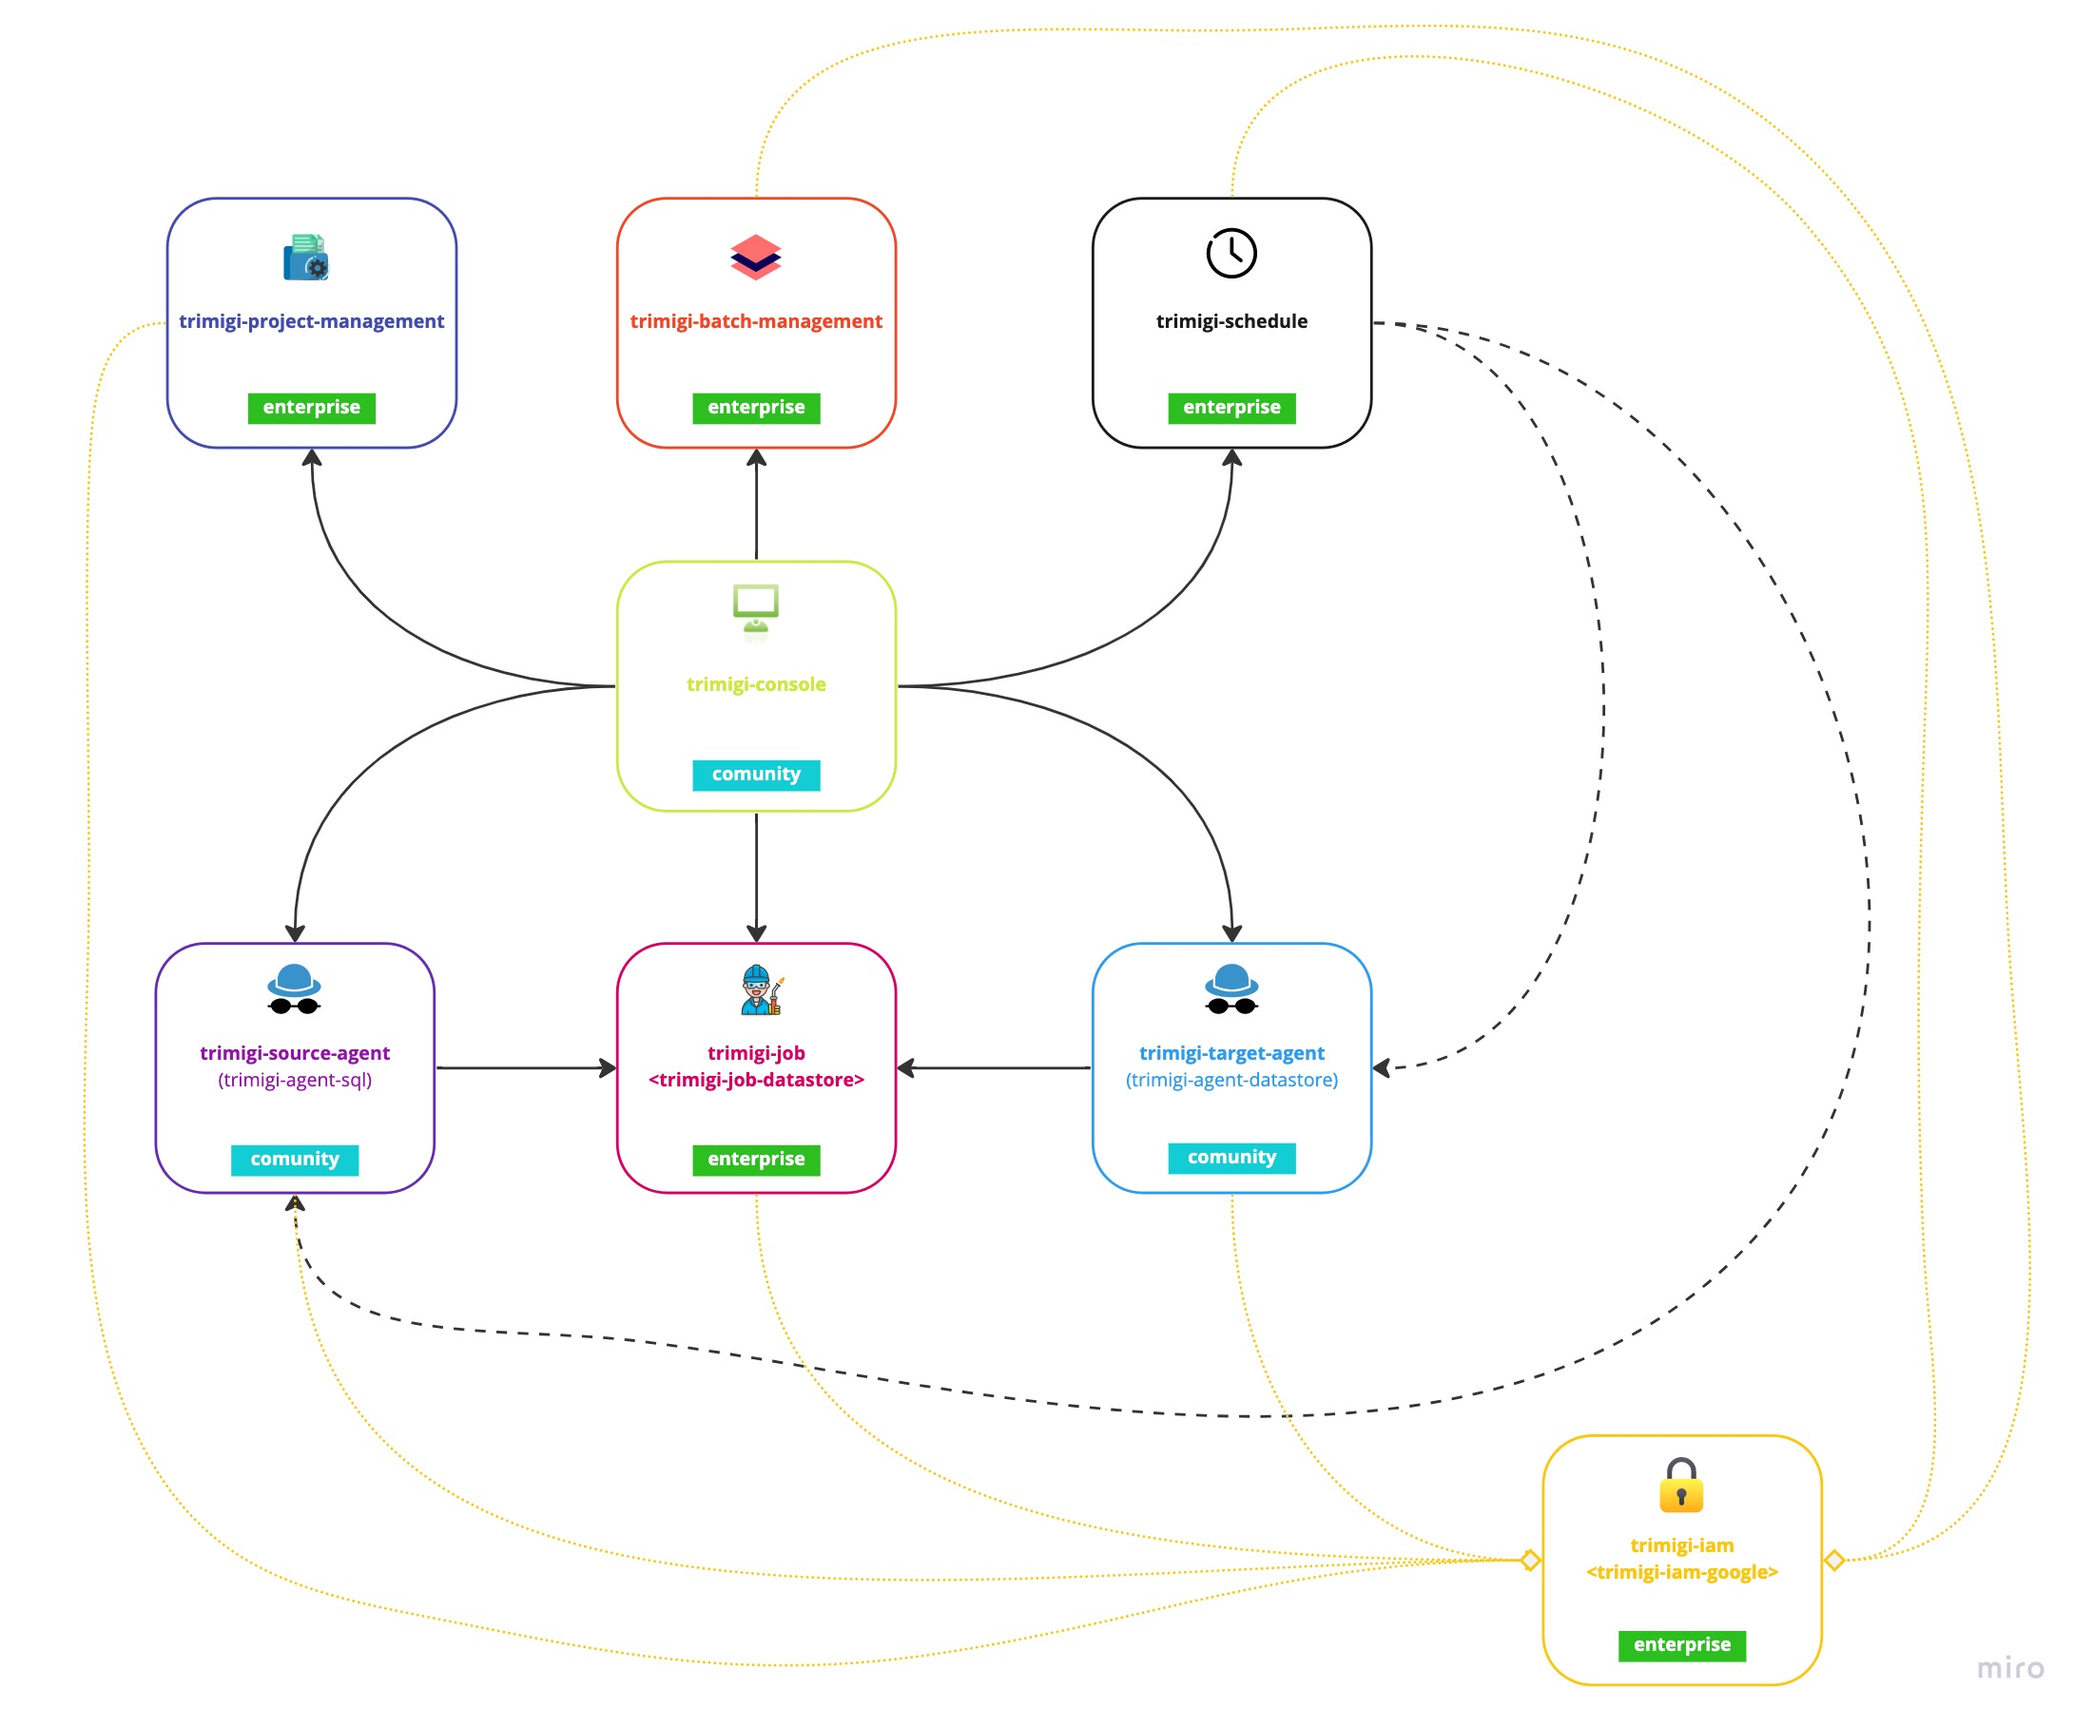
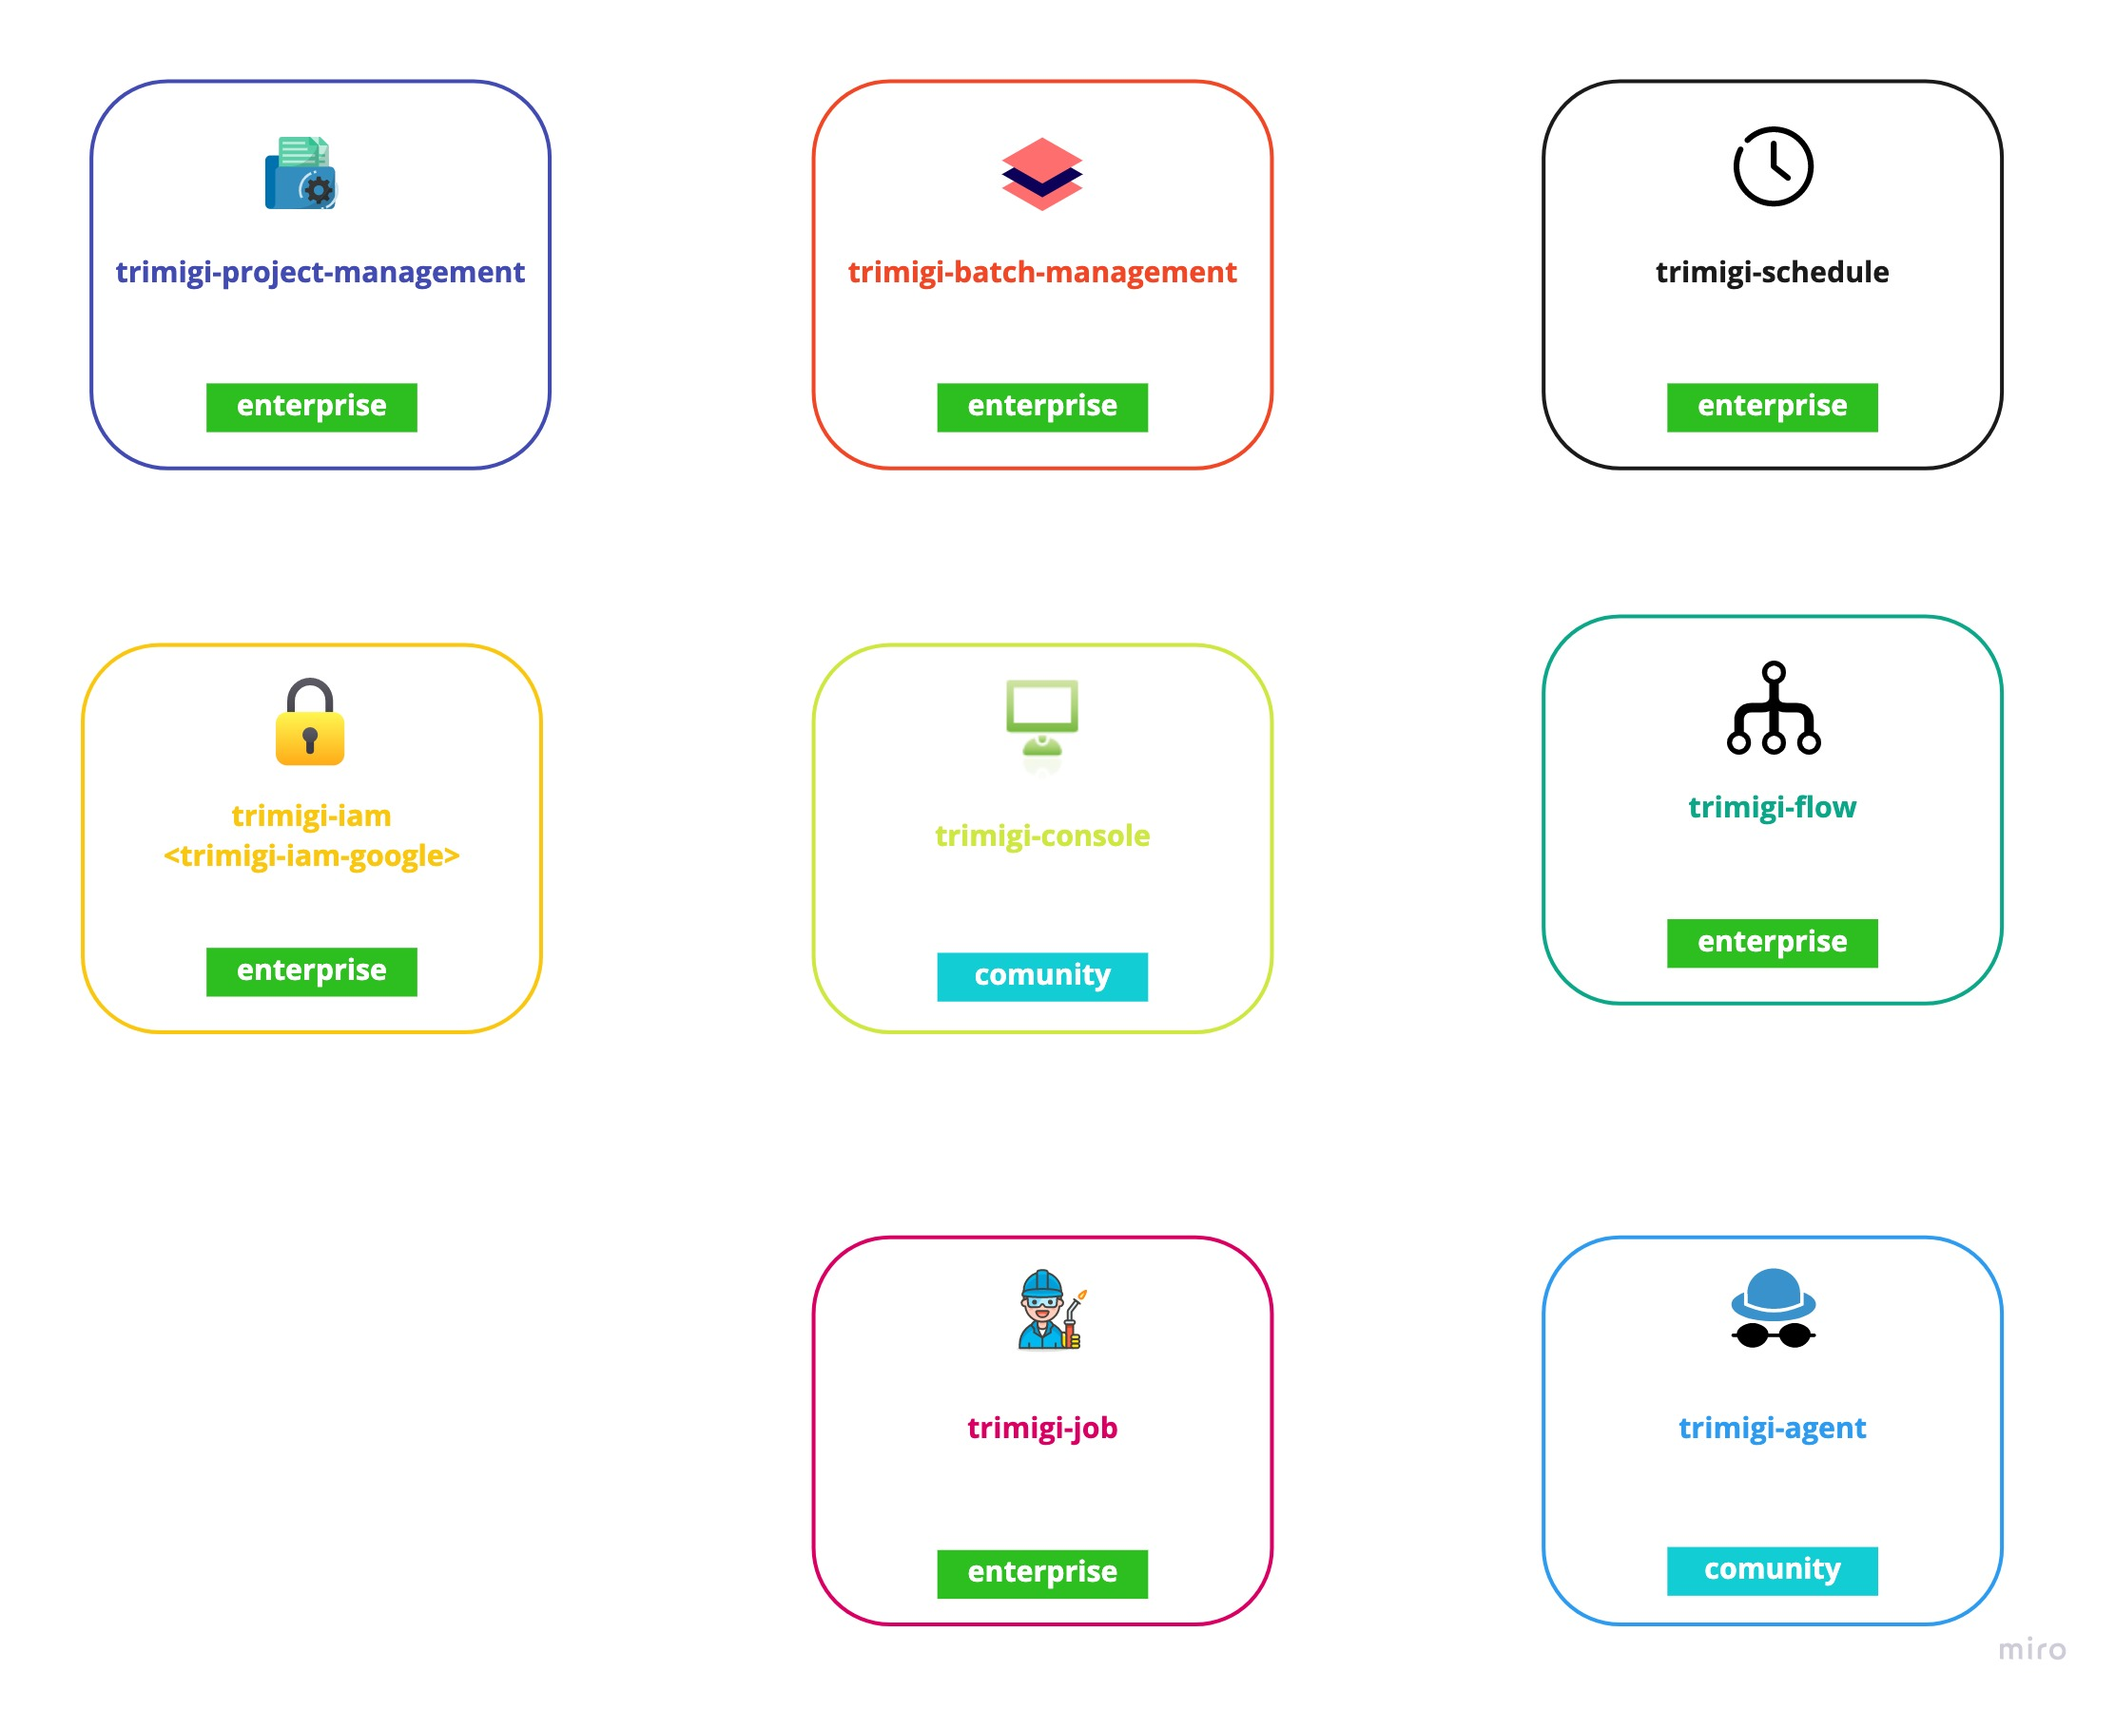
added trimigi-flow as new component simplified overview image

diff --git a/README.md b/README.md
@@ -6,15 +6,17 @@ Trimigi documentation, architecture and API centralised repository
 
 ## Trimigi platform components
 
-| Component name                                    | Type        | Deployment                      | Managed by  | Production ready |
-| -----------                                       | ----------- | -----------                     | ----------- | ---------------- |
-| [trimigi-console](#component-trimigi-console)     | UI          | GCloud SaaS                     | Turnonline  | &#9989;          |
-| [trimigi-job](#component-trimigi-job)             | service     | GCloud SaaS                     | Turnonline  | &#10060;         | 
-| [trimigi-project-management](#component-trimigi-project-management)     | service     | GCloud SaaS                     | Turnonline  | &#10060;         | 
-| [trimigi-batch-management](#component-trimigi-batch-management)         | service     | GCloud SaaS                     | Turnonline  | &#10060;         | 
-| [trimigi-schedule](#component-trimigi-schedule)   | service     | GCloud SaaS                     | Turnonline  | &#10060;         | 
-| [trimigi-agent](#component-trimigi-agent)         | service     | AppEngine/Cloud run/On premise  | Client      | &#9989;          | 
-| [trimigi-iam](#component-trimigi-iam)             | service     | AppEngine/Cloud run/On premise  | Client      | &#10060;         | 
+| Component name                                                      | Type        | Deployment                     | Managed by  | Production ready |
+|---------------------------------------------------------------------| ----------- |--------------------------------| ----------- | ---------------- |
+| [trimigi-console](#component-trimigi-console)                       | UI          | GCloud SaaS                    | Turnonline  | &#9989;          |
+| [trimigi-job](#component-trimigi-job)                               | service     | GCloud SaaS                    | Turnonline  | &#10060;         | 
+| [trimigi-project-management](#component-trimigi-project-management) | service     | GCloud SaaS                    | Turnonline  | &#10060;         | 
+| [trimigi-batch-management](#component-trimigi-batch-management)     | service     | GCloud SaaS                    | Turnonline  | &#10060;         | 
+| [trimigi-schedule](#component-trimigi-schedule)                     | service     | GCloud SaaS                    | Turnonline  | &#10060;         |
+| [trimigi-flow](#component-trimigi-flow)                             | service     | GCloud SaaS                    | Turnonline  | &#10060;         |
+| [trimigi-agent](#component-trimigi-agent)                           | service     | AppEngine/Cloud run/On premise | Client      | &#9989;          | 
+| [trimigi-iam](#component-trimigi-iam)                               | service     | AppEngine/Cloud run/On premise | Client      | &#10060;         | 
+
 
 ### Component `trimigi-console`
 Centralized UI console for:
@@ -41,6 +43,12 @@ Service for:
 Service for:
 * scheduling of migrations
 * scheduling of imports
+* scheduling of flows
+
+### Component `trimigi-flow`
+Service for:
+* designing of workflow for complex task (run migration A, run migration B, initialize import with codebook, etc.)
+* support for parallel, sequence or conditional execution of tasks
 
 ### Component `trimigi-agent`
 Concrete implementation of agent
